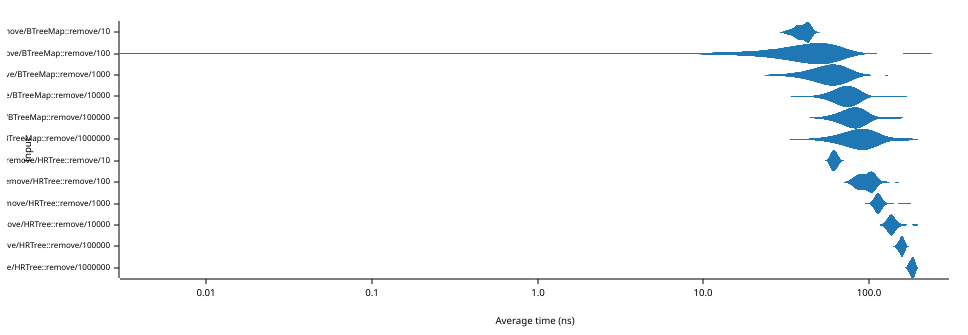
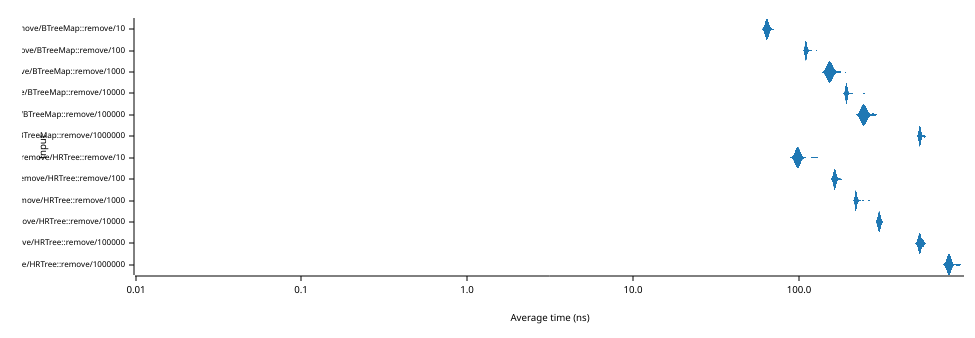
Ensure we benchmark the hard part of remove

diff --git a/benches/bench.rs b/benches/bench.rs
@@ -67,7 +67,7 @@ fn hrtree_insert(c: &mut Criterion) {
     }
 }
 
-/// Measure the time to insert and remove 1 element in a tree of size N
+/// Measure the time to remove (and restore) 1 element in a tree of size N
 fn hrtree_remove(c: &mut Criterion) {
     let mut rng = rand::rngs::StdRng::seed_from_u64(42);
 
@@ -95,11 +95,14 @@ fn hrtree_remove(c: &mut Criterion) {
                 for (k, v) in key_values[..size].iter().copied() {
                     tree.insert(k, v);
                 }
-                let k = rng.gen();
-                let v = rng.gen();
                 b.iter(|| {
-                    tree.insert(k, v);
-                    tree.remove(&k);
+                    // NOTE: do the removal first because removing a just-inserted element is
+                    // likely easier; do not reuse the same key, since it was just reinserted
+                    // during the last iteration
+                    let idx = rng.gen_range(0..size);
+                    let (k, v) = &key_values[idx];
+                    tree.remove(k);
+                    tree.insert(*k, *v);
                 })
             },
         );
@@ -111,11 +114,14 @@ fn hrtree_remove(c: &mut Criterion) {
                 for (k, v) in key_values[..size].iter().copied() {
                     tree.insert(k, v);
                 }
-                let k = rng.gen();
-                let v = rng.gen();
                 b.iter(|| {
-                    tree.insert(k, v);
-                    tree.remove(&k);
+                    // NOTE: do the removal first because removing a just-inserted element is
+                    // likely easier; do not reuse the same key, since it was just reinserted
+                    // during the last iteration
+                    let idx = rng.gen_range(0..size);
+                    let (k, v) = &key_values[idx];
+                    tree.remove(k);
+                    tree.insert(*k, *v);
                 })
             },
         );

diff --git a/README.md b/README.md
@@ -68,15 +68,15 @@ The performance of our `HRTree` implementation follows closely that of
 `BTreeMap`. When looking at each value of N, we see that the average throughput
 of the `HRTree` is between one third and one half that of `BTreeMap`.
 
-![Graph of the time needed to insert and remove 1 element in a tree of size N](img/perf-remove.png)
+![Graph of the time needed to remove and restore 1 element in a tree of size N](img/perf-remove.png)
 
 The graph above shows the amount of time **in nanoseconds** (abscissa, bottom
-axis) needed to **insert, and then remove a single element** from a tree
+axis) needed to **remove a single element** (and restore it) from a tree
 containing N elements (ordinate, bottom axis). Note that both axes use a
 logarithmic scale.
 
-The most important thing to notice is that the average insertion/removal time
-only grows from 62 ns to 182 ns although the size of the tree changes from 10 to
+The most important thing to notice is that the average removal/insertion time
+only grows from 100 ns to 800 s although the size of the tree changes from 10 to
 1,000,000 elements.
 
 ![Graph of the time needed to compute 1 hash of a range of elements in a tree of size N](img/perf-hash.png)
